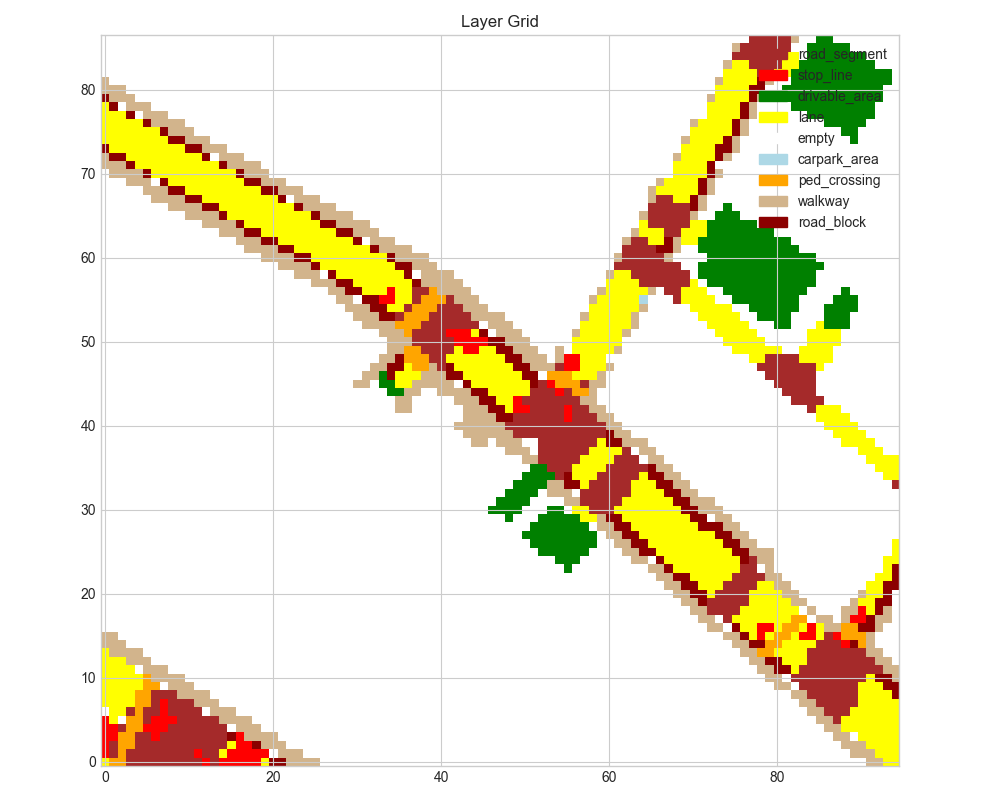
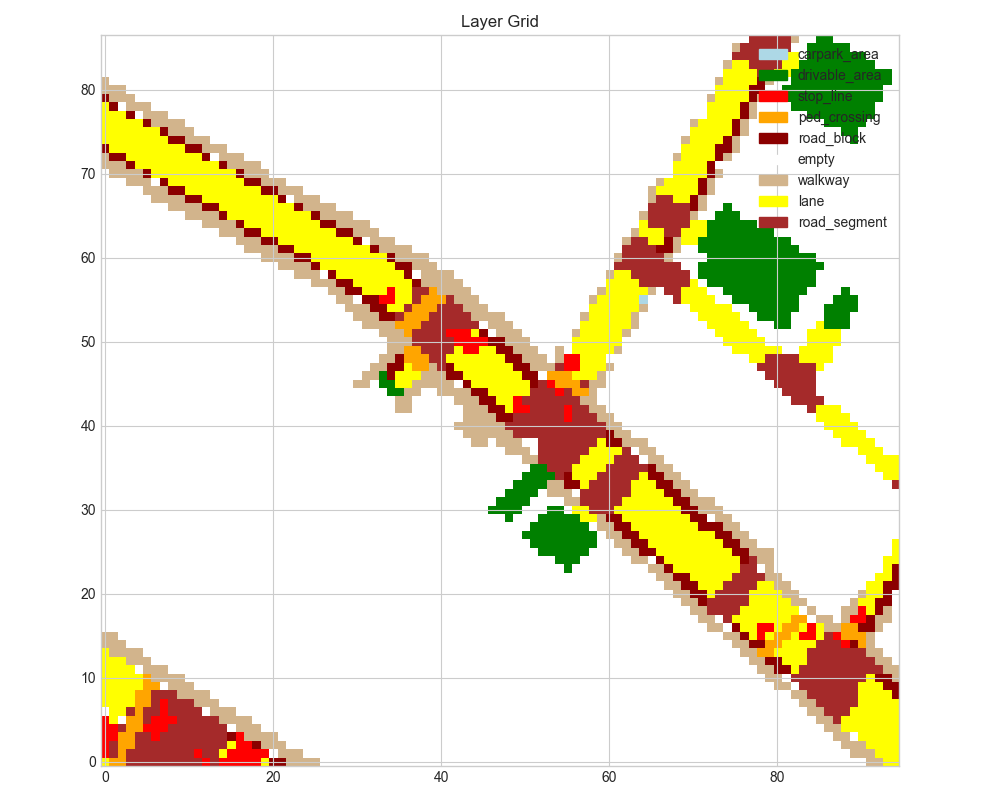
Made some plots

Changed region(s): [[0.744, 0.0625, 0.899, 0.2812]]

diff --git a/Main.py b/Main.py
@@ -18,12 +18,12 @@ from nuscenes.map_expansion import arcline_path_utils
 from nuscenes.map_expansion.bitmap import BitMap
 
 LIDAR_RANGE = 50 # 50 meter
-RESOLUTION = 2 # meter
+RESOLUTION = 10 # meter
 
 risk_weights = (1, 1, 1) 
-dataroot = r"C:/Users/Ruben/OneDrive/Bureaublad/data/sets/nuscenes"
+#dataroot = r"C:/Users/Ruben/OneDrive/Bureaublad/data/sets/nuscenes"
 #dataroot = r"C:/Users/marni/OneDrive/Documents/BEP 2024/data/sets/nuscenes"
-#dataroot = r'C:/Users/Chris/Python scripts/BEP VALDERS/data/sets/nuscenes'
+dataroot = r'C:/Users/Chris/Python scripts/BEP VALDERS/data/sets/nuscenes'
 
 map_name = 'boston-seaport'  #'singapore-onenorth'
 

diff --git a/test.py b/test.py
@@ -7,10 +7,10 @@ from Severity import severity
 
 
 LIDAR_RANGE = 50 # 50 meter
-RESOLUTION = 2 # meter
+RESOLUTION = 10 # meter
 
-dataroot = r'C:/Users/marni/OneDrive/Documents/BEP 2024/data/sets/nuscenes'
-#dataroot = r'C:/Users/Chris/Python scripts/BEP VALDERS/data/sets/nuscenes'
+#dataroot = r'C:/Users/marni/OneDrive/Documents/BEP 2024/data/sets/nuscenes'
+dataroot = r'C:/Users/Chris/Python scripts/BEP VALDERS/data/sets/nuscenes'
 map_name = 'boston-seaport' #'singapore-onenorth'
 
 map_width = 2979.5
